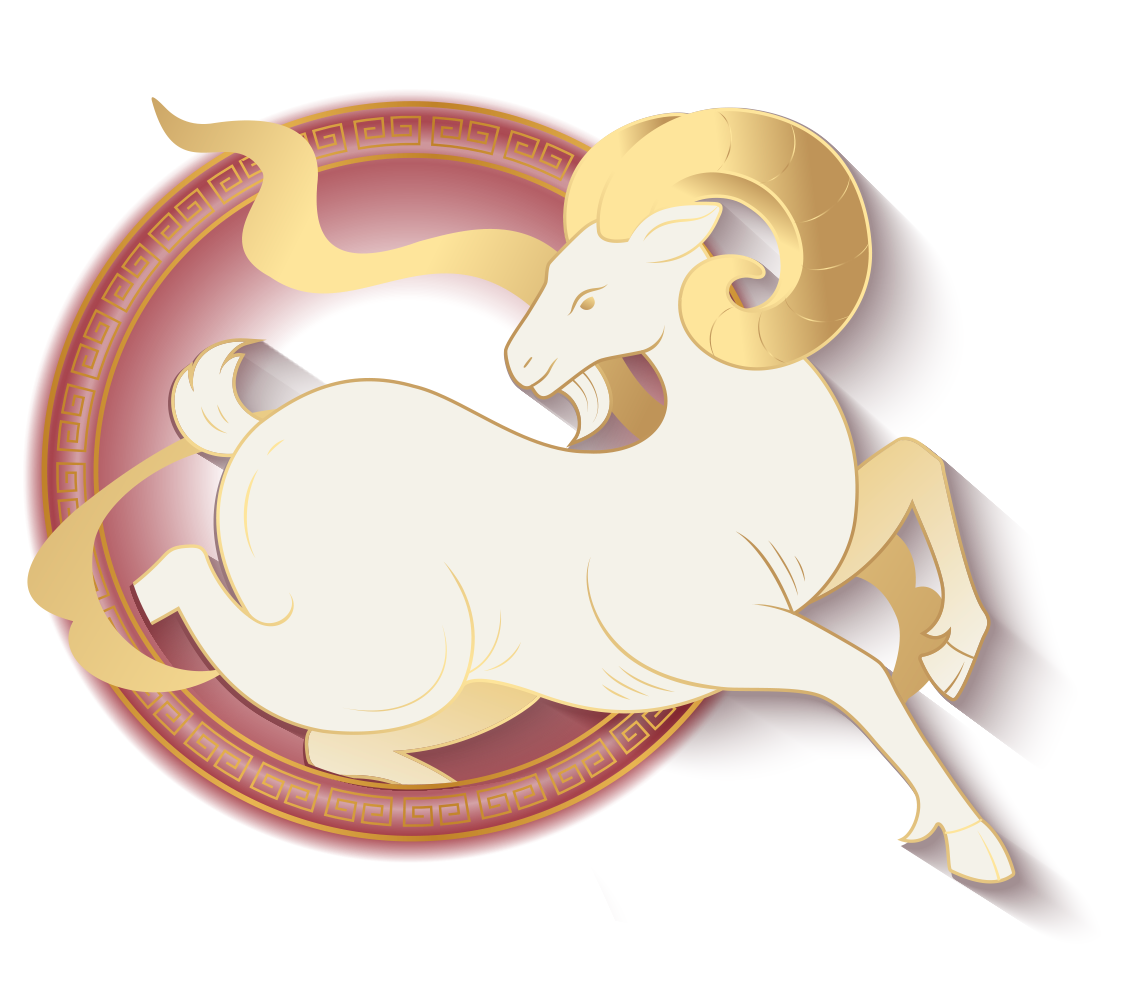
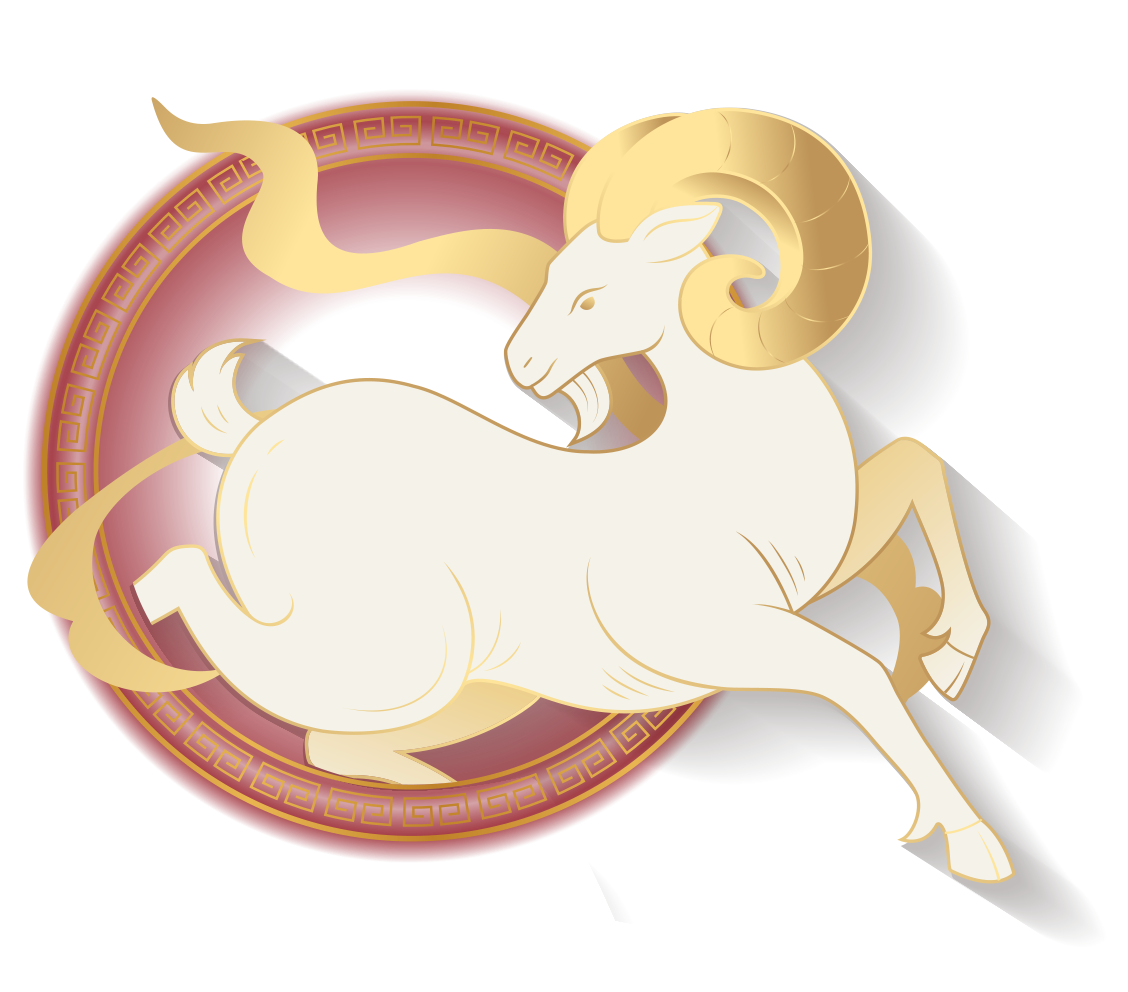
Use widened lantern images and stronger goat float
- Show lanterns at their new natural widths, pushing the extra padding
  off-screen and anchoring by the string top; update swing pivots
- Make the goat float slower and with a larger range
- Update goat and lantern image assets

diff --git a/js/scripts.js b/js/scripts.js
@@ -230,8 +230,8 @@
             opacity: 0,
             y: -250,
           });
-          gsap.set('.lantern_left', { transformOrigin: '22% 0%', rotation: -12 });
-          gsap.set('.lantern_right', { transformOrigin: '97% 0%', rotation: 12 });
+          gsap.set('.lantern_left', { transformOrigin: '30.5% 0%', rotation: -12 });
+          gsap.set('.lantern_right', { transformOrigin: '74.3% 0%', rotation: 12 });
           gsap.set('.knot', { transformOrigin: '50% 0%', rotation: -10 });
 
           gsap.set('.flower_top', {
@@ -368,9 +368,10 @@
               duration: 1.2,
               ease: 'power2.out',
               onComplete: () => {
+                // 慢慢上下浮動
                 gsap.to('.goat', {
-                  y: -12,
-                  duration: 2.5,
+                  y: -35,
+                  duration: 3.5,
                   ease: 'sine.inOut',
                   repeat: -1,
                   yoyo: true,

diff --git a/css/styles.css b/css/styles.css
@@ -624,9 +624,11 @@ body::-webkit-scrollbar {
   top: 0;
 }
 
+/* 燈籠圖兩側有加寬（擺動時才不會露出切邊），
+   多出的寬度推到視窗外，以吊繩頂點對齊原位置 */
 .lantern_left {
-  width: calc(372px * var(--stage-scale, 1));
-  left: 0;
+  width: calc(420px * var(--stage-scale, 1));
+  left: calc(-48px * var(--stage-scale, 1));
 }
 
 .lantern_container .knot_left {
@@ -636,8 +638,8 @@ body::-webkit-scrollbar {
 }
 
 .lantern_right {
-  width: calc(228px * var(--stage-scale, 1));
-  right: 0;
+  width: calc(300px * var(--stage-scale, 1));
+  right: calc(-71px * var(--stage-scale, 1));
 }
 
 /* logo 貼齊視窗四角，尺寸跟著舞台比例縮放 */
